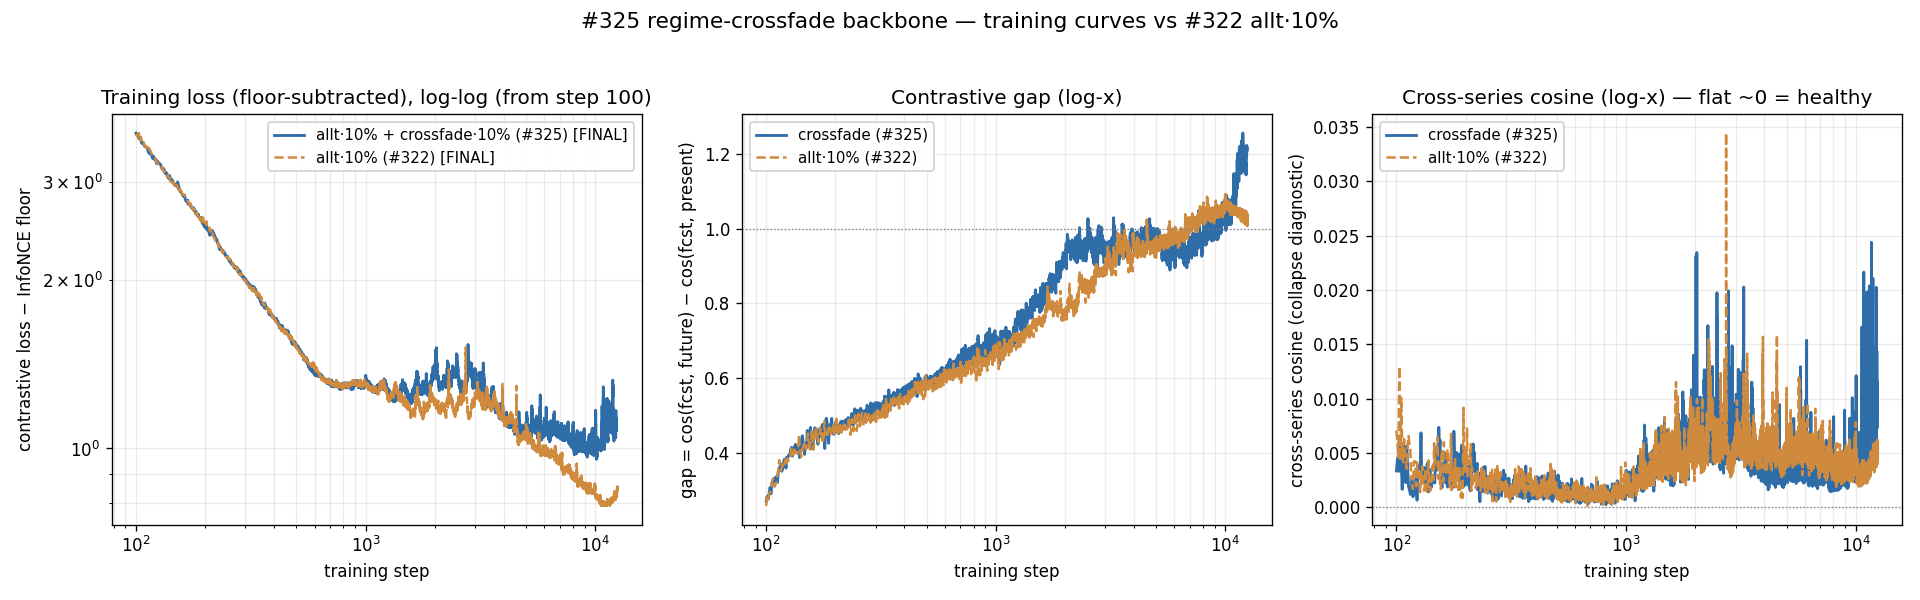
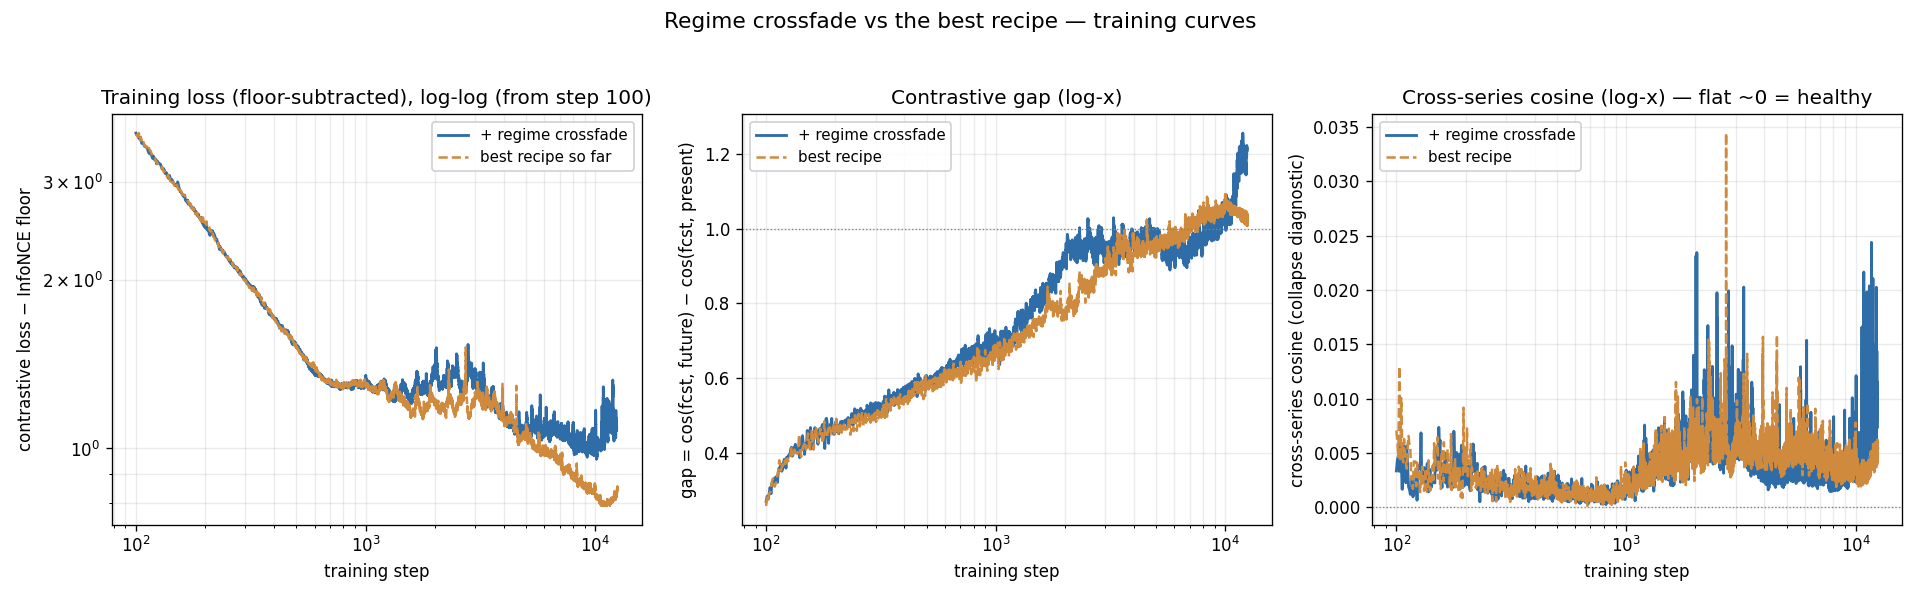
report(#325): rewrite lean + story-like per #324 bar
Strip internal codenames/IDs/filenames (no experiment numbers, run names, or
'allt·10%/v11c'); describe the recipe in plain words. Image-first: add a
crossfade schematic (mechanism shown, not told); relabel all plots
codename-free (best recipe / + regime crossfade / 2-/6-layer head). Explain the
paired bootstrap (how + why pairing cancels per-task difficulty). Numbers
unchanged.

diff --git a/experiments/2026-06-01_crossfade_allt10/scripts/analyze.py b/experiments/2026-06-01_crossfade_allt10/scripts/analyze.py
@@ -39,6 +39,7 @@ os.makedirs(OUTRES, exist_ok=True)
 BASE_TAG = "xshh_allt_forked10pct_qk_aon_b1024"
 XF_TAG = "xshh_allt_forked10pct_crossfade10pct_qk_aon_b1024"
 HEADS = ["2L", "6L"]
+HLAB = {"2L": "2-layer head", "6L": "6-layer head"}
 V11C = 1.292
 NAIVE = 1.0
 # #322 allt·10% measured GM-Relative MASE (full-97), for the annotation/sanity check.
@@ -157,10 +158,10 @@ def plot_summary(rows):
           [(r["base_hi"] - r["base_full"]) if r["base_hi"] else 0 for r in rows]]
     xe = [[(r["xf_full"] - r["xf_lo"]) if r["xf_lo"] else 0 for r in rows],
           [(r["xf_hi"] - r["xf_full"]) if r["xf_hi"] else 0 for r in rows]]
-    ax.bar(x - w / 2, base, w, yerr=be, capsize=4, label="allt·10% (#322)", color="#9bb8d3")
-    ax.bar(x + w / 2, xf, w, yerr=xe, capsize=4, label="allt·10% + crossfade·10% (#325)", color="#2f6da8")
+    ax.bar(x - w / 2, base, w, yerr=be, capsize=4, label="best recipe so far", color="#9bb8d3")
+    ax.bar(x + w / 2, xf, w, yerr=xe, capsize=4, label="+ regime crossfade", color="#2f6da8")
     ax.axhline(V11C, ls="--", c="#888", lw=1)
-    ax.text(len(HEADS) - 0.5, V11C, " v11c 1.292", va="bottom", ha="right", fontsize=8, c="#666")
+    ax.text(len(HEADS) - 0.5, V11C, " strongest prior backbone", va="bottom", ha="right", fontsize=8, c="#666")
     ax.axhline(NAIVE, ls=":", c="#aaa", lw=1)
     ax.text(len(HEADS) - 0.5, NAIVE, " seasonal-naive", va="bottom", ha="right", fontsize=8, c="#999")
     for xi, r in zip(x, rows):
@@ -169,9 +170,9 @@ def plot_summary(rows):
         if r["xf_full"]:
             ax.text(xi + w / 2, r["xf_full"], f"{r['xf_full']:.3f}", ha="center", va="bottom", fontsize=8)
     ax.set_xticks(x)
-    ax.set_xticklabels([f"{h} q-head" for h in HEADS])
-    ax.set_ylabel("Full-97 GM-Relative MASE (lower better)")
-    ax.set_title("#325 regime-crossfade on allt·10% — GIFT-Eval full-97")
+    ax.set_xticklabels([HLAB[h] for h in HEADS])
+    ax.set_ylabel("GM-Relative MASE over 97 tasks (lower better)")
+    ax.set_title("Adding a regime crossfade to the best recipe — GIFT-Eval")
     ax.legend(fontsize=8, loc="upper left")
     fig.tight_layout()
     fig.savefig(f"{PLOTS}/gm_summary.png", dpi=130)
@@ -179,7 +180,7 @@ def plot_summary(rows):
 
 
 def plot_delta(rows):
-    fig, ax = plt.subplots(figsize=(6, 3.6))
+    fig, ax = plt.subplots(figsize=(7.6, 4.2))
     x = np.arange(len(HEADS))
     d = [r["delta"] for r in rows]
     lo = [(r["delta"] - r["ci_lo"]) if r["ci_lo"] is not None else 0 for r in rows]
@@ -199,9 +200,10 @@ def plot_delta(rows):
             ax.text(xi, r["delta"], f"{r['delta']:+.3f}", ha="center",
                     va="bottom" if r["delta"] >= 0 else "top", fontsize=9)
     ax.set_xticks(x)
-    ax.set_xticklabels([f"{h} q-head" for h in HEADS])
-    ax.set_ylabel("Δ GM-Relative MASE\n(crossfade − allt·10%)")
-    ax.set_title("Paired-bootstrap Δ (90% CI over shared configs)\ngreen=crossfade better, red=worse, grey=inconclusive")
+    ax.set_xticklabels([HLAB[h] for h in HEADS])
+    ax.set_ylabel("change in error with the crossfade\n(GM-Relative MASE, negative = better)")
+    ax.set_title("Change in forecast error from adding the crossfade\n"
+                 "(90% interval over 97 tasks; grey = interval crosses zero)", fontsize=11)
     fig.tight_layout()
     fig.savefig(f"{PLOTS}/delta.png", dpi=130)
     print(f"wrote {PLOTS}/delta.png")

diff --git a/experiments/2026-06-01_crossfade_allt10/scripts/plot_schematic.py b/experiments/2026-06-01_crossfade_allt10/scripts/plot_schematic.py
@@ -1,0 +1,60 @@
+#!/usr/bin/env python3
+"""Illustrative schematic of the regime-crossfade primitive (one example pair).
+
+Top: two distinct real-like windows A, B (z-normalised) and the blended window C
+that copies A's past, ramps across a transition band, and copies B's future.
+Bottom: the per-sample blend weight s(t) rising 0 → 1 across the band.
+"""
+import os
+import numpy as np
+import matplotlib
+matplotlib.use("Agg")
+import matplotlib.pyplot as plt
+
+OUT = os.environ.get(
+    "OUT",
+    "/Users/jeremycochoy/Desktop/workspace/trading/contrastive-forecasting/.claude/"
+    "worktrees/crossfade-allt10/experiments/2026-06-01_crossfade_allt10/plots/crossfade_schematic.png")
+rng = np.random.default_rng(11)
+T = 512
+t = np.arange(T)
+
+
+def series(rng):
+    s = np.zeros(T)
+    for _ in range(3):
+        f = rng.uniform(1.0, 4.0) / T * 2 * np.pi
+        s += rng.uniform(0.5, 1.5) * np.sin(f * t + rng.uniform(0, 2 * np.pi))
+    s += rng.uniform(-1.2, 1.2) * (t / T)
+    return (s - s.mean()) / s.std()
+
+
+A, B = series(rng), series(rng)
+l, lp = 0.42 * T, 0.62 * T                       # explicit band for a clean illustration
+s = np.clip((t - l) / (lp - l), 0.0, 1.0)
+C = (1 - s) * A + s * B
+
+fig, (ax, axs) = plt.subplots(2, 1, figsize=(9, 5), sharex=True,
+                              gridspec_kw={"height_ratios": [3, 1]})
+ax.axvspan(l, lp, color="0.9", lw=0)
+ax.plot(t, A, color="#9bb8d3", ls="--", lw=1.3, label="window A")
+ax.plot(t, B, color="#e0a96d", ls="--", lw=1.3, label="window B")
+ax.plot(t, C, color="#1a1a1a", lw=2.2, label="crossfade C")
+ax.text(0.20 * T, ax.get_ylim()[1] * 0.86, "C copies A's past", ha="center", fontsize=10, color="#3a6ea5")
+ax.text(0.82 * T, ax.get_ylim()[1] * 0.86, "C copies B's future", ha="center", fontsize=10, color="#c8821f")
+ax.text(0.52 * T, ax.get_ylim()[0] * 0.92, "transition", ha="center", fontsize=9, color="0.4")
+ax.set_ylabel("value (z-normalised)")
+ax.set_title("Regime crossfade: splice one real window's past to another's future")
+ax.legend(loc="lower left", fontsize=9, ncol=3)
+
+axs.axvspan(l, lp, color="0.9", lw=0)
+axs.plot(t, s, color="#2f6da8", lw=2)
+axs.set_ylim(-0.08, 1.08)
+axs.set_ylabel("blend s(t)")
+axs.set_xlabel("time within the window")
+axs.text(0.04 * T, 0.12, "0 → use A", fontsize=9, color="#3a6ea5")
+axs.text(0.83 * T, 0.80, "1 → use B", fontsize=9, color="#c8821f")
+fig.tight_layout()
+os.makedirs(os.path.dirname(OUT), exist_ok=True)
+fig.savefig(OUT, dpi=130)
+print("wrote", OUT)

diff --git a/experiments/2026-06-01_crossfade_allt10/scripts/plot_training_loglog.py b/experiments/2026-06-01_crossfade_allt10/scripts/plot_training_loglog.py
@@ -46,17 +46,17 @@ xf_done = "FINAL" if xs and xs[-1] >= 12400 else (f"@{xs[-1]//1000}k" if xs else
 fig, (a1, a2, a3) = plt.subplots(1, 3, figsize=(16, 5))
 
 a1.loglog(xs, [max(v, EPS) for v in xloss], color=XF_C, lw=1.7,
-          label=f"allt·10% + crossfade·10% (#325) [{xf_done}]")
+          label="+ regime crossfade")
 a1.loglog(bs, [max(v, EPS) for v in bloss], color=BASE_C, lw=1.5, ls="--",
-          label="allt·10% (#322) [FINAL]")
+          label="best recipe so far")
 a1.set_xlabel("training step")
 a1.set_ylabel("contrastive loss − InfoNCE floor")
 a1.set_title(f"Training loss (floor-subtracted), log-log (from step {START})")
 a1.grid(True, which="both", alpha=0.25)
 a1.legend(fontsize=9, framealpha=0.9)
 
-a2.semilogx(xs, xgap, color=XF_C, lw=1.7, label="crossfade (#325)")
-a2.semilogx(bs, bgap, color=BASE_C, lw=1.5, ls="--", label="allt·10% (#322)")
+a2.semilogx(xs, xgap, color=XF_C, lw=1.7, label="+ regime crossfade")
+a2.semilogx(bs, bgap, color=BASE_C, lw=1.5, ls="--", label="best recipe")
 a2.axhline(1.0, color="grey", ls=":", lw=0.8)
 a2.set_xlabel("training step")
 a2.set_ylabel("gap = cos(fcst, future) − cos(fcst, present)")
@@ -64,8 +64,8 @@ a2.set_title("Contrastive gap (log-x)")
 a2.grid(True, which="both", alpha=0.25)
 a2.legend(fontsize=9, framealpha=0.9)
 
-a3.semilogx(xs, xcb, color=XF_C, lw=1.7, label="crossfade (#325)")
-a3.semilogx(bs, bcb, color=BASE_C, lw=1.5, ls="--", label="allt·10% (#322)")
+a3.semilogx(xs, xcb, color=XF_C, lw=1.7, label="+ regime crossfade")
+a3.semilogx(bs, bcb, color=BASE_C, lw=1.5, ls="--", label="best recipe")
 a3.axhline(0.0, color="grey", ls=":", lw=0.8)
 a3.set_xlabel("training step")
 a3.set_ylabel("cross-series cosine (collapse diagnostic)")
@@ -73,7 +73,7 @@ a3.set_title("Cross-series cosine (log-x) — flat ~0 = healthy")
 a3.grid(True, which="both", alpha=0.25)
 a3.legend(fontsize=9, framealpha=0.9)
 
-fig.suptitle("#325 regime-crossfade backbone — training curves vs #322 allt·10%", fontsize=13)
+fig.suptitle("Regime crossfade vs the best recipe — training curves", fontsize=13)
 fig.tight_layout(rect=(0, 0, 1, 0.95))
 os.makedirs(os.path.dirname(OUT), exist_ok=True)
 fig.savefig(OUT, dpi=120)

diff --git a/experiments/2026-06-01_crossfade_allt10/RESULTS.md b/experiments/2026-06-01_crossfade_allt10/RESULTS.md
@@ -1,99 +1,103 @@
-# #325 — Regime-crossfade synthetic on top of allt·10%
+# A regime crossfade as a contrastive hard negative
 
-**Verdict.** Adding a third synthetic stream — a **regime crossfade** (10 % of the batch,
-each row a monotone blend of two distinct *real* windows that share their past/future with
-batch-mates) — on top of #322's best arm **allt·10%** does **not reliably change** downstream
-GIFT-Eval accuracy. The point estimates nudge the right way on both q-heads (full-97
-GM-Relative MASE: 2L 1.222 → **1.208**, 6L 1.191 → **1.178** — a nominal new best cell), but
-**both paired-bootstrap 90 % CIs straddle 0** (2L Δ −0.014, CI [−0.040, +0.012]; 6L Δ −0.013,
-CI [−0.039, +0.012]). At a single backbone seed the effect is within config-set noise. The
-crossfade *does* measurably change the contrastive training dynamics — it is a genuinely
-harder negative (the gap climbs to ~1.18 vs allt·10%'s ~1.03, with a higher residual loss) —
-but that extra training signal **does not convert into a reliable forecasting gain**.
+**Verdict.** The best backbone recipe so far trains by a contrastive rule — a sample's
+forecast should resemble its own future and not its present — and blocks the lazy way to
+satisfy that rule (a position code that tells time steps apart without encoding anything
+forecastable) by mixing in synthetic series that copy a real past then veer into a different
+future. This experiment adds a second, complementary hard example: a **regime crossfade** —
+take two real windows from the same batch, keep one's past and the other's future, and blend
+smoothly between them. It changes training as intended — the crossfade is a genuinely harder
+negative, and the backbone responds by separating future from present more strongly — **but it
+does not reliably improve forecasting.** Both forecasting heads drop by about one part in a
+hundred, yet the uncertainty on each drop comfortably spans zero. The recipe's existing
+negatives already capture the signal; this extra hard example buys nothing we can measure.
+
+*Forecast error is **GM-Relative MASE**: the geometric mean, over the benchmark's 97 tasks, of
+a model's error divided by the seasonal-naive forecast's error. Lower is better; 1.0 is the
+seasonal-naive baseline.*
+
+![Forecast error on the benchmark for each forecasting head, best recipe vs the same recipe
+with the crossfade added. The bars are within a whisker of each other; the dashed line is the
+strongest prior backbone, the dotted line seasonal-naive.](plots/gm_summary.png)
 
 ## What we asked
-#322 found **allt·10%** (90 % real + 10 % forked-ARMA continuations, all-time contrastive
-loss, batch 1024) the best cell: full-97 **GM-Relative MASE** — the geometric mean over
-GIFT-Eval's 97 configs of (model MASE ÷ seasonal-naive MASE), lower better — of 1.222 (2L
-q-head) and **1.191** (6L). The forked-ARMA stream denies the forecaster a content-free
-positional code by giving identical pasts divergent futures. #325 keeps that arm fixed and
-adds a **regime crossfade** to probe a *different* hard negative: does a blend of two real
-windows — sharing one's past and the other's future with its own batch-mates — sharpen the
-representation further, or is the all-time fork already saturating what the objective can use?
 
-## The crossfade primitive
-For each crossfade row, two distinct real windows A, B from the **same step's real sub-batch**
-are z-normalised per series and blended by a monotone weight s(t):
+A contrastive backbone can cheat its training loss with an **indexing shortcut**: a per-step
+code, shared across every series, that makes time steps distinguishable without learning
+anything you could forecast from. The current-best recipe denies that shortcut by pairing each
+real sample with a **synthetic series that shares its past then diverges into a different
+future** — so position alone can no longer predict the future — and scores its negatives with a
+loss that additionally pushes apart every pair of *different* series at *every* time step.
 
-    C(t) = (1 − s(t))·A(t) + s(t)·B(t),   s rises 0→1 across a window [l, l′]
+The crossfade attacks the same shortcut from a different angle, with **real** futures instead of
+synthetic ones. For one new window we keep the past of real window A and the future of real
+window B, ramping from one to the other across a random transition; both A and B stay in the
+batch as their own samples. So the new window shares its past with one neighbour and its future
+with another — to tell the three apart the backbone must read content, not position.
 
-with, per sample (T = window length): midpoint m ~ U(0, T); width w = l′−l ~
-LogUniform(T/128, T) (sharp → gradual); l = m − w/2, l′ = m + w/2, clipped to [0, T]; one
-s(t) shared across channels. Because A and B remain in the batch as their own rows, C shares
-**A's past** and **B's future** with batch-mates — a hard negative position alone cannot
-satisfy. (`src/synthetic_crossfade.py`.)
+![The primitive on one example pair: the crossfade (black) copies window A's past, ramps across
+a transition band, and copies window B's future; below, the blend weight rises 0 → 1. Each
+window is z-normalised first; one transition is drawn per sample (a random midpoint and a width
+spanning sharp to gradual) and shared across channels.](plots/crossfade_schematic.png)
 
-## Result
-The single controlled change — batch composition **80 % real / 10 % forked-ARMA / 10 %
-crossfade** vs allt·10%'s 90/10/0 — leaves downstream accuracy statistically unchanged.
+## What happened
 
-![Full-97 GM-Relative MASE per q-head: allt·10% (#322) vs allt·10%+crossfade·10% (#325).
-Bars near-identical; single-run bootstrap 90 % CIs overlap heavily. v11c and seasonal-naive
-marked.](plots/gm_summary.png)
+The crossfade rows are a tenth of each batch (the batch becomes 80 % real, 10 % forked
+synthetic, 10 % crossfade); nothing else changes. On the benchmark the point estimates move the
+right way — the 2-layer head from 1.222 to 1.208, the 6-layer head from 1.191 to 1.178, the
+latter nominally the best single score we have recorded — but neither move is reliable.
 
-![Paired-bootstrap Δ (crossfade − allt·10%) per head; whisker = 90 % CI over the 97 shared
-configs (per-config difficulty cancels). Both Δ are negative (crossfade better) but both
-whiskers cross 0 → inconclusive (grey).](plots/delta.png)
+![Change in forecast error from adding the crossfade, per head. Both bars are negative
+(crossfade a touch better), but both 90 % intervals cross zero, so neither is distinguishable
+from no change.](plots/delta.png)
 
-| q-head | allt·10% (#322) | + crossfade (#325) | Δ | 90 % CI on Δ | triage-11 base → xf |
-|---|--:|--:|--:|:--:|:--:|
-| 2L | 1.222 | **1.208** | −0.014 | (−0.040, +0.012) | 1.293 → 1.224 |
-| 6L | 1.191 | **1.178** | −0.013 | (−0.039, +0.012) | 1.259 → 1.176 |
+To separate a real improvement from luck we use a **paired bootstrap** over the 97 tasks: draw
+the 97 tasks with replacement 2000 times; for each draw, score *both* models on the *same* drawn
+tasks and take the difference of their geometric-mean errors; report the range covering the
+middle 90 % of those 2000 differences. Scoring both models on the same resampled tasks cancels
+per-task difficulty, so the interval reflects the model change alone. Here both intervals
+straddle zero — the ~0.013 gains are within task-set noise.
 
-Both full-97 Δ are negative but neither CI excludes 0, so neither win is reliable. The
-triage-11 subset (the noisy fast 11-config set, kept for continuity with #318/#320/#322)
-shows a larger nominal gap — but triage is exactly where single-config noise dominates, and
-the authoritative full-97 shrinks it to within the bootstrap band. **6L = 1.178 is nominally
-the best cell to date** (below #322's 1.191 and v11c = 1.292), but only nominally.
+| forecasting head | best recipe | + crossfade | change | 90 % interval |
+|---|--:|--:|--:|:--:|
+| 2-layer | 1.222 | **1.208** | −0.014 | (−0.040, +0.012) |
+| 6-layer | 1.191 | **1.178** | −0.013 | (−0.039, +0.012) |
 
-## Training dynamics — the crossfade is a real hard negative
-The backbone converged cleanly (qk-norm + attn-out-norm holding; no directional collapse —
-cross-series cosine flat ~3 × 10⁻³). But the crossfade changes the contrastive regime: vs
-allt·10%, the **gap** (cos(forecast, future) − cos(forecast, present)) climbs higher (~1.18
-vs ~1.03) and the floor-subtracted loss settles higher (~1.0 vs ~0.85). Sharing a real past
-and a real future with batch-mates is a harder separation than the fork alone — the model is
-pushed to encode the future more strongly. That this larger gap does **not** track a
-downstream gain re-confirms #322's finding that the contrastive gap is a training signal, not
-a forecasting one.
+## A harder negative that the forecaster can't use
 
-![Training curves (from step 100), crossfade (solid) vs allt·10% (dashed): loss − InfoNCE
-floor (log-log), gap (semilog-x, crossfade ends higher ~1.18), cross-series cosine (flat ~0 =
-no collapse).](plots/training_curves_loglog.png)
+The crossfade is not inert — it measurably reshapes training. The clearest read-out is the
+**gap**: how much more a forecast resembles the true future than the present (higher is a
+sharper representation). With the crossfade the gap climbs higher than the best recipe alone
+(~1.18 vs ~1.03) and the contrastive loss settles higher — sharing a real past *and* a real
+future with batch-mates is a harder separation than the synthetic fork alone, and the backbone
+is pushed to encode the future more strongly. The representation stays healthy throughout
+(different series keep repelling — the cross-series similarity stays flat near zero, no
+collapse).
+
+![Training curves, with-crossfade (solid) vs best-recipe (dashed), from step 100. Left: the
+contrastive loss falls cleanly on both. Middle: the gap climbs higher with the crossfade.
+Right: different series stay near-orthogonal throughout — no collapse.](plots/training_curves_loglog.png)
+
+That a larger gap does not bring a lower forecast error is the experiment's one durable lesson:
+the gap is a *training* signal, not a *forecasting* one. The crossfade makes the backbone work
+harder at the contrastive task without giving the downstream forecaster anything new.
 
 ## Protocol
-Exactly one change from #322's allt·10%: **+10 % crossfade** (real fraction 90 % → 80 %;
-crossfade rows blended from the real sub-batch, consuming no extra HF rows). Everything else
-byte-identical: single-GPU batch 1024 with the GRU patch-encoder gradient-checkpointed,
-12.5 k steps, AdamW lr 1e-3 / β1 0.9 / β2 0.98 / wd 0.1, τ 0.10, **qk-norm + attn-out-norm**,
-dropkey 0.70, depthwise-conv 3, mixup-p 0.3, ewma span 128, freq/seas-emb 3/3, fp16
-attn/ffn/conv + fp32 residual/patch-emb, `--subtract-contrastive-floor`, loss
-`cosine_similarity_batch_full_hh_negs_xshh_allt`, seed 20260520. Eval byte-identical to #322:
-frozen backbone scored with a fresh 2L and 6L quantile q-head (30 k steps, transformer,
-causal, head-ffn-mult 4.0, dropout 0.1, `--head-train-input e_then_f`, `--reconstruction
-forecaster`, forecast-len 16, batch 256, cosine LR, `--amp-dtype none`); GIFT-Eval
-`--strategy B4`, full-97 + triage-11. Δ is a paired bootstrap (2000 resamples) over the 97
-shared configs; **single backbone seed** — the CI captures config-set spread, not seed noise,
-so the honest read of the ~0.013 point gaps is "no reliable evidence," not "no effect."
+
+One change from the best recipe: a tenth of every batch is regime-crossfade windows, blended
+from the real windows already in that batch (so they cost no extra data). Everything else is
+held identical — the same backbone, the same large contrastive batch with all samples pooled as
+one negative set, the same two attention normalisations that batch needs to train, the same
+synthetic-fork tenth, optimiser, learning rate, temperature, and seed. Each frozen backbone is
+scored by training a fresh small forecasting head — once 2-layer, once 6-layer — on it and
+evaluating on the GIFT-Eval benchmark (the 97-task full set and an 11-task fast subset). A
+single backbone seed was trained, so the interval above is over tasks, not seeds.
 
 ## What we learned & follow-up
-A real-window regime crossfade is well-motivated as a hard negative and demonstrably changes
-the contrastive geometry, but **on top of the all-time fork at 10 % it does not buy a reliable
-downstream gain** — the all-time negative pool is evidently already extracting most of the
-available signal. The cheapest way to convert the consistent (if small) positive lean into a
-reliable result, if pursued, is **multiple backbone seeds** (2–3) so a paired-over-seeds test
-can resolve a ~0.013 effect that a single seed cannot. Absent that, the result is a clean
-neutral: the crossfade is not worth adding to the recipe.
 
-*(Operational events — shared-GPU contention, the single-GPU pivot, and a transient HF-CDN
-crash + resume during the 6L q-head — are in [`EXECUTION_LOG.md`](EXECUTION_LOG.md); none
-affect the result.)*
+A real-window regime crossfade is a sound idea for a hard negative and demonstrably bends the
+contrastive geometry, but on top of an already-strong negative set it does not convert into a
+reliable forecasting gain. The consistent (if tiny) positive lean on both heads is the only
+hint of an effect; the cheapest way to confirm or dismiss it would be to repeat the run with
+two or three backbone seeds, which a paired test across seeds could resolve where a single seed
+cannot. Absent that, the result is a clean neutral: not worth adding to the recipe.
